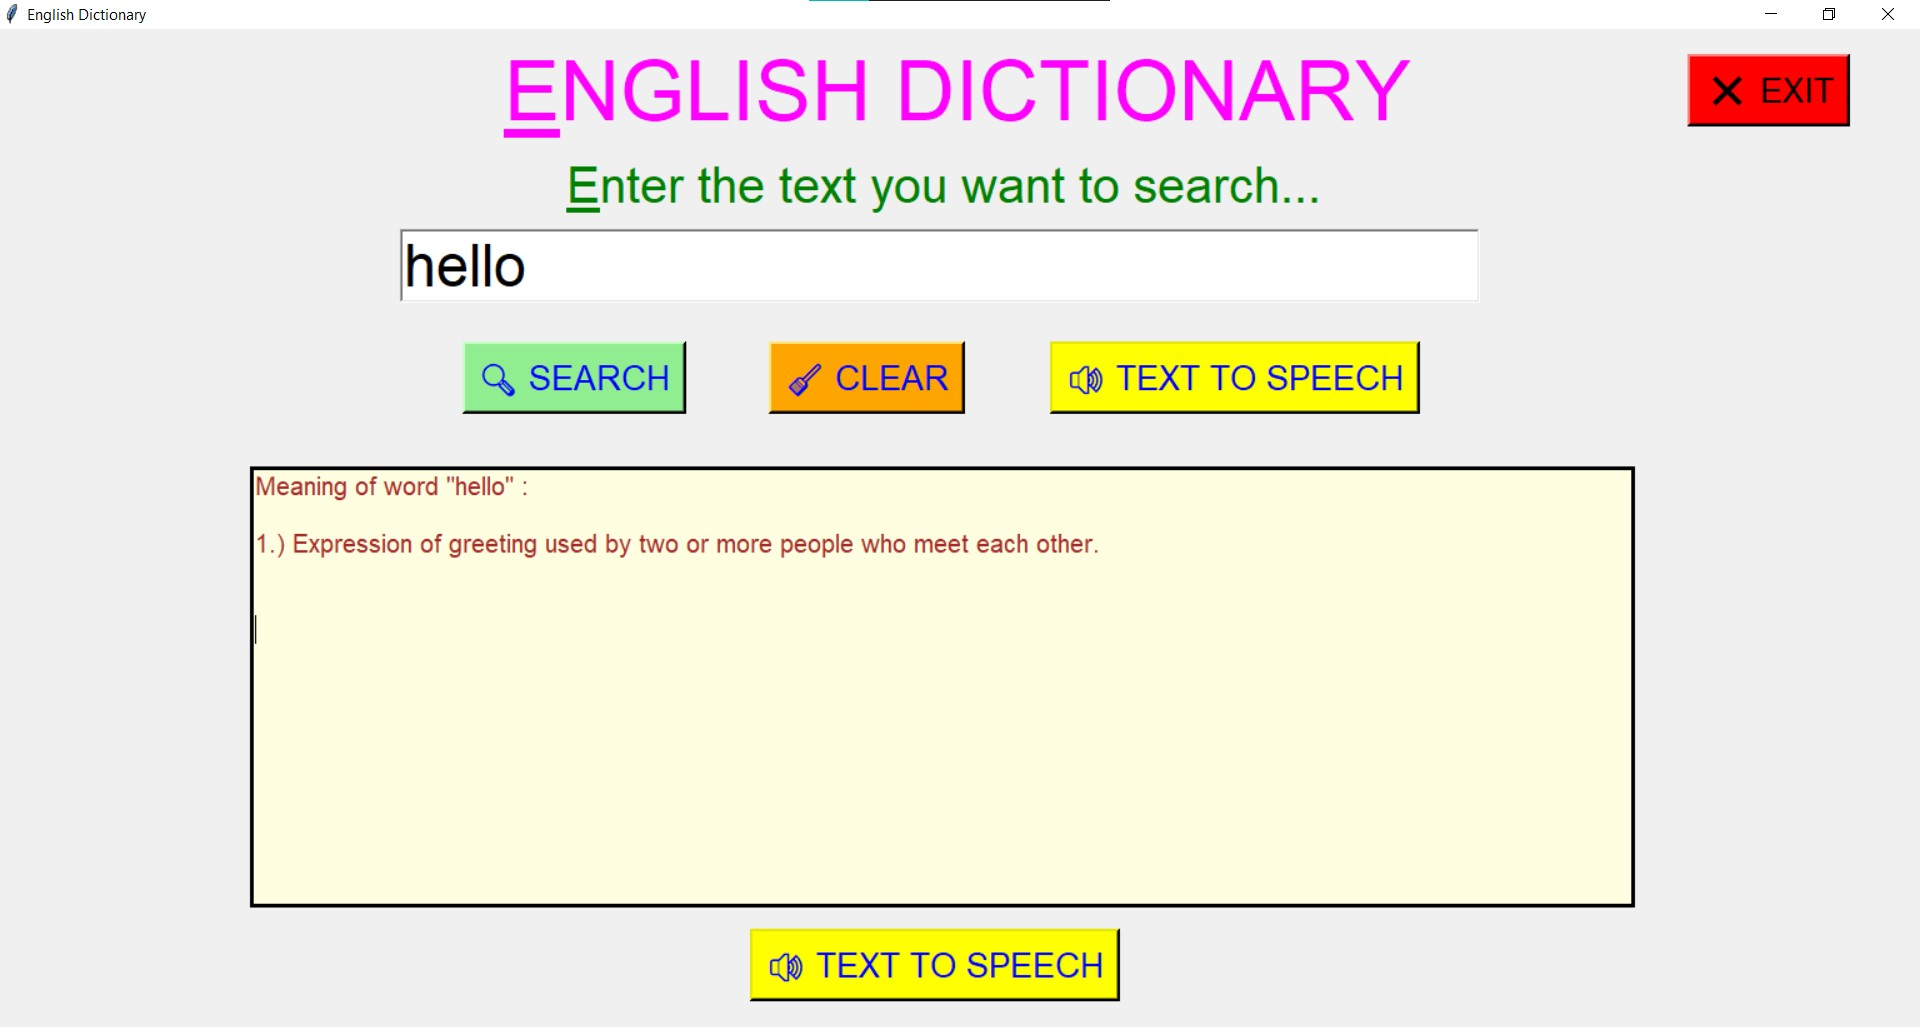
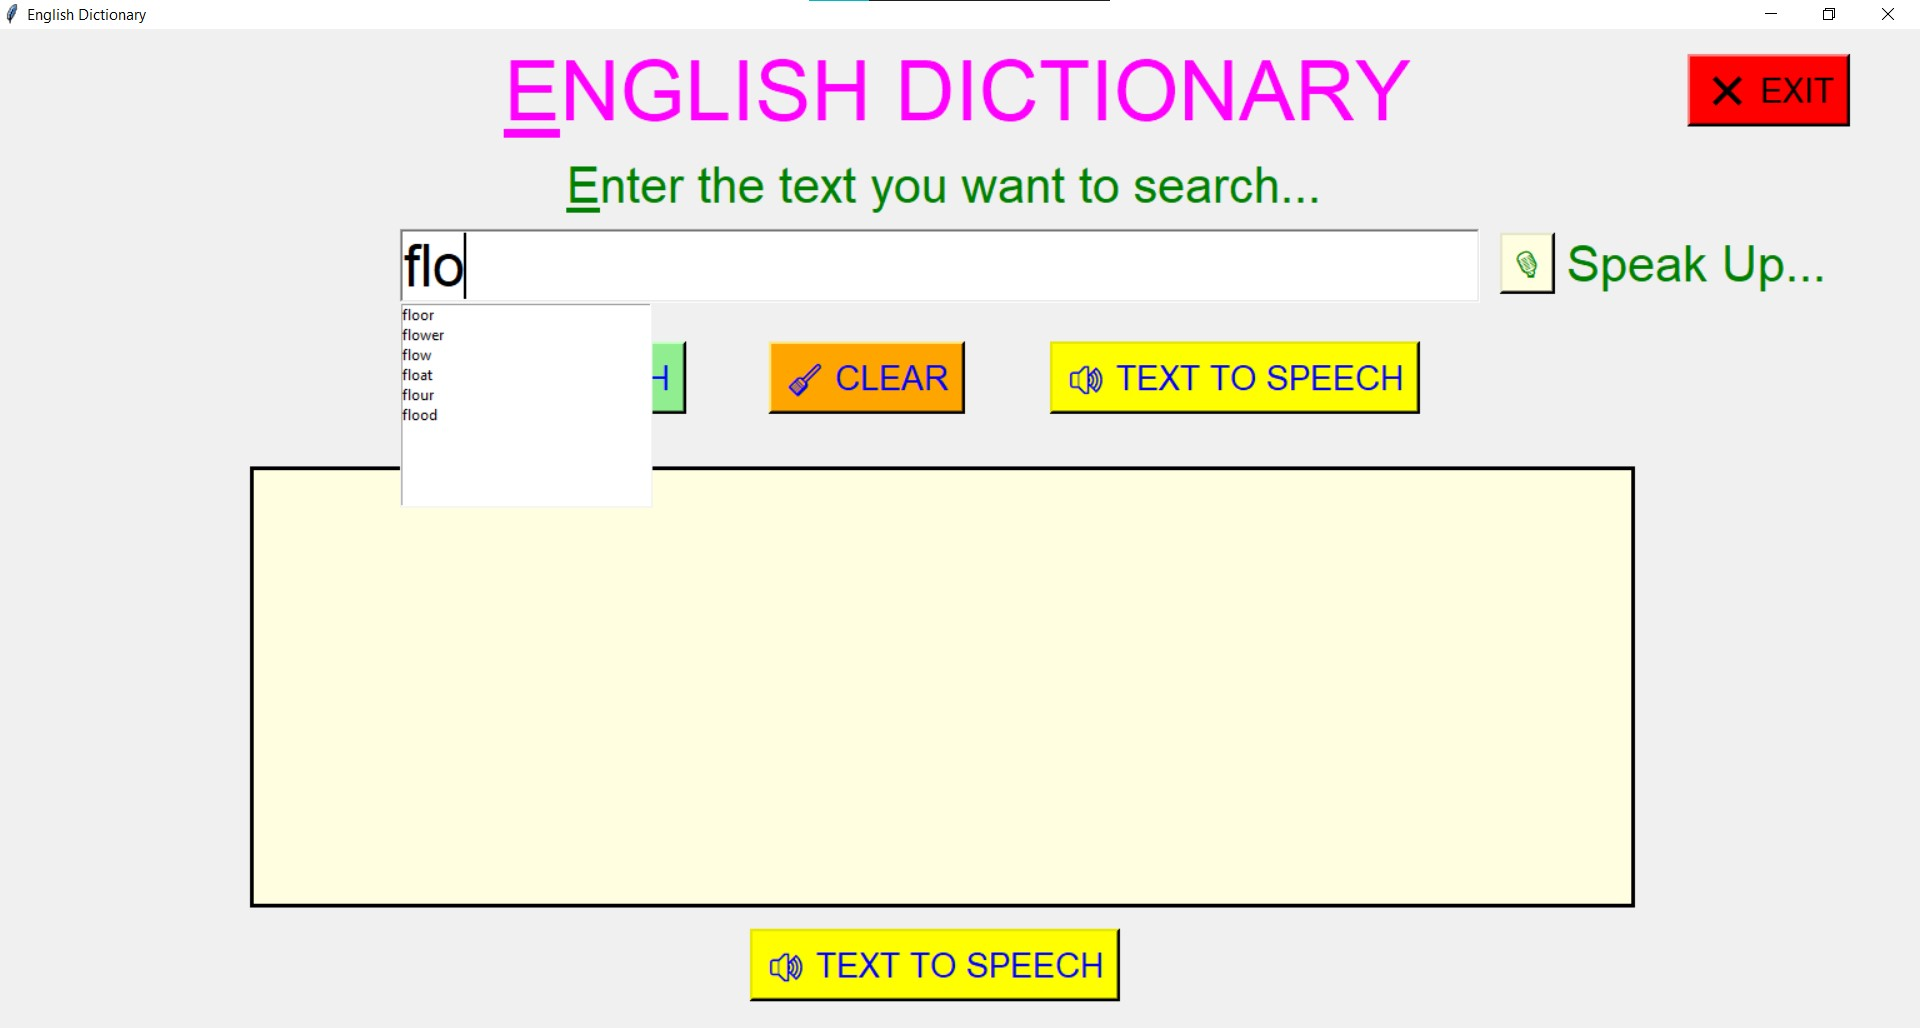
Enhanced Speech input in English Dictionary in GUIScripts

diff --git a/GUIScripts/English Dictionary/english_dictionary.py b/GUIScripts/English Dictionary/english_dictionary.py
@@ -6,6 +6,8 @@ import json
 from difflib import get_close_matches
 import pandas as pd
 import pyttsx3
+import speech_recognition as sr
+import pyaudio
 
 # ------------------------------------------------------------------------------------------------------------------
 data = pd.read_csv('Related/words.csv')
@@ -144,6 +146,22 @@ def out_text_to_speech(**kwargs):
     engine.runAndWait()
     engine.stop()
     # out_b.configure(command=read_text)
+
+def input_speech():
+    r = sr.Recognizer()
+    inputentry.delete(0, END)
+    inputentry.insert(0, "Listening... Speak now...")
+    with sr.Microphone() as source:
+        # print("Listening... Speak now...")
+        audio = r.listen(source)
+        try:
+            text = r.recognize_google(audio)
+            inputentry.delete(0, END)
+            inputentry.insert(0,text)
+            # print("You said : {}".format(text))
+        except:
+            inputentry.delete(0, END)
+            inputentry.insert(0, "Didn't get that. Try again...")
 
 # function defined th=o clear both the input text and output text --------------------------------------------------
 def clear_text():
@@ -291,6 +309,11 @@ inputentry.insert(0, 'Enter the word you want to search...')
 inputentry.bind('<FocusIn>', on_inputentry_click)
 inputentry.place(x=320, y=160)
 
+# # creating speech to text button
+speech_in_b = Button(window,text="🎙",command= input_speech,font=("Arial", 18), bg = "light yellow", fg = "green", borderwidth=3, relief="raised").place(x = 1200, y = 163)
+
+start2 = tk.Label(text = "Speak Up...", font=("Arial", 30), fg="green") # same way bg
+start2.place(x = 1250, y = 163)
 
 # # Creating Search Button
 Button(window,text="🔍 SEARCH",command= search_word,font=("Arial", 20), bg = "light green", fg = "blue", borderwidth=3, relief="raised").place(x = 370, y = 250)

diff --git a/GUIScripts/English Dictionary/README_enhanced.md b/GUIScripts/English Dictionary/README_enhanced.md
@@ -2,8 +2,9 @@
 - #### A "English Dictionary" created in python with tkinter gui.
 - #### Used data.json file and used those data importing json library.
 - #### Also modified the code for the case of interface (word having multiple meaning), if word is title or noun,  and also developed the closest word matching technique in case of any typo.
-- #### Also implemented the autocomlete feature while entering search word.
+- #### Also implemented the autocomplete feature while entering search word.
 - #### Also added text to speech feature in both input enter and output text.
+- #### Added speech input in search bar.
 
 ****
 
@@ -16,6 +17,8 @@
 - #### pandas
 - #### io 
 - #### pyttsx3 
+- #### speech_recognition as sr
+- #### pyaudio
 
 # Changes Done :
 
@@ -25,13 +28,14 @@
 4. Using this words.csv data, implemented the auto complete feature, i.e. as we enter any letter in the entry section, we get suggestion of words in dropdown list whose prefix matches with our entered word. 
 5. Also while exiting the dictionary, we get a exit dialog box asking us the permission.
 6. Added text to speech feature for both input and output area.
+7. Added a speech input in search bar, so that user can also search word by speaking text or word.
 
 
 # Purpose :
-- #### This scripts helps us to easily get the meaning of any word be entering text in search area and searching it. Also can get the speech of text and meaning of it.
+- #### This scripts helps us to easily get the meaning of any word be entering text in search area and searching it. Also can get the speech of text and meaning of it. Also can search word by speaking word.
 
 # Compilation Steps :
-- #### Install tkinter, json, difflib, pandas, io, pyttsx3
+- #### Install tkinter, json, difflib, pandas, io, pyttsx3, speech_recognition , pyaudio
 - #### After that download the code file, and run english_dictionary.py on local system.
 - #### Then the script will start running and user can explore it by entering any text and searching it.
 
